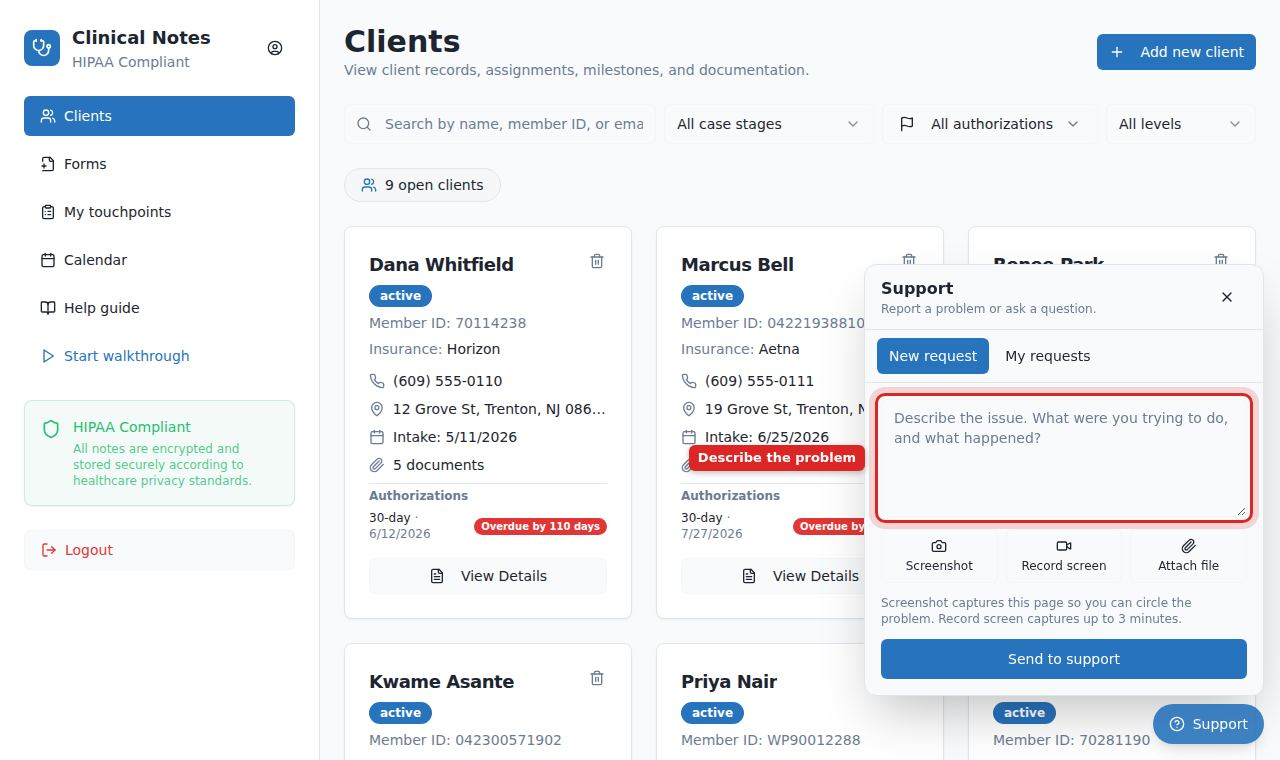
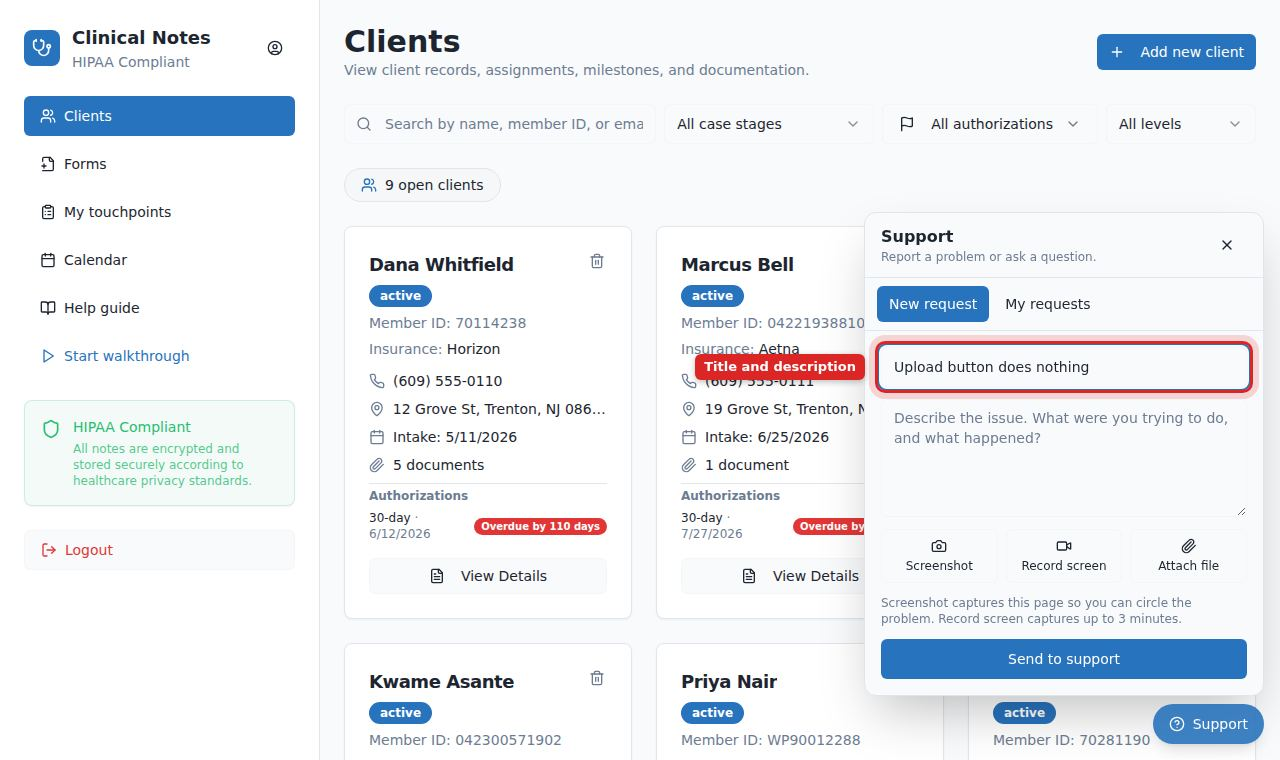
Support requests have a title
The Support form asks for a title above the description. My requests and
the Support tickets page list requests by title; opening one shows the
full description and replies. Older requests show the start of their
message. The support email subject includes the title.

Claude-Session: https://claude.ai/code/session_012TZTkqWFZbcufo1uEC7hhK

Changed region(s): [[0.5312, 0.3026, 1.0, 0.6961], [0.9375, 0.3329, 0.9688, 0.3632]]

diff --git a/src/components/support/SupportButton.tsx b/src/components/support/SupportButton.tsx
@@ -17,6 +17,7 @@ import {
   X,
 } from 'lucide-react';
 import { Button } from '@/components/ui/button';
+import { Input } from '@/components/ui/input';
 import { Textarea } from '@/components/ui/textarea';
 import { useToast } from '@/hooks/use-toast';
 import { useAuth } from '@/components/AuthProvider';
@@ -32,6 +33,7 @@ import {
   uploadAttachment,
   type Attachment,
   type Ticket,
+  ticketTitle,
 } from '@/lib/support';
 
 /** Longest recording, so a forgotten one does not run on. */
@@ -51,6 +53,7 @@ export const SupportButton: React.FC = () => {
   const { toast } = useToast();
   const [open, setOpen] = useState(false);
   const [tab, setTab] = useState<'new' | 'mine'>('new');
+  const [title, setTitle] = useState('');
   const [message, setMessage] = useState('');
   const [pending, setPending] = useState<Pending[]>([]);
   const [sending, setSending] = useState(false);
@@ -161,6 +164,10 @@ export const SupportButton: React.FC = () => {
   };
 
   const send = async () => {
+    if (!title.trim()) {
+      toast({ title: 'Enter a title', variant: 'destructive' });
+      return;
+    }
     if (!message.trim()) {
       toast({ title: 'Describe the issue before sending', variant: 'destructive' });
       return;
@@ -169,9 +176,10 @@ export const SupportButton: React.FC = () => {
     try {
       const attachments: Attachment[] = [];
       for (const p of pending) attachments.push(await uploadAttachment(user.id, p.blob, p.kind, p.name));
-      await openTicket(message, attachments);
+      await openTicket(title, message, attachments);
       pending.forEach((p) => p.preview && URL.revokeObjectURL(p.preview));
       setPending([]);
+      setTitle('');
       setMessage('');
       await refresh();
       setTab('mine');
@@ -249,6 +257,7 @@ export const SupportButton: React.FC = () => {
             <div className="min-h-0 flex-1 overflow-y-auto p-4">
               {viewing ? (
                 <div className="space-y-3">
+                  <h3 className="font-semibold">{ticketTitle(viewing)}</h3>
                   <span className={`rounded-md px-2 py-0.5 text-xs ${STATUS_CLASS[viewing.status]}`}>
                     {STATUS_LABEL[viewing.status]}
                   </span>
@@ -256,7 +265,15 @@ export const SupportButton: React.FC = () => {
                 </div>
               ) : tab === 'new' ? (
                 <div className="space-y-3">
+                  <Input
+                    value={title}
+                    onChange={(e) => setTitle(e.target.value)}
+                    placeholder="Title"
+                    aria-label="Title"
+                    maxLength={100}
+                  />
                   <Textarea
+                    aria-label="Description"
                     value={message}
                     onChange={(e) => setMessage(e.target.value)}
                     placeholder="Describe the issue. What were you trying to do, and what happened?"
@@ -346,7 +363,7 @@ export const SupportButton: React.FC = () => {
                           {format(new Date(t.created_at), 'MMM d')}
                         </span>
                       </div>
-                      <p className="mt-1.5 line-clamp-2 text-sm">{t.message}</p>
+                      <p className="mt-1.5 truncate text-sm font-medium">{ticketTitle(t)}</p>
                       {hasNewReply(t) && <p className="mt-1 text-xs font-medium text-red-700">New reply from support</p>}
                     </button>
                   ))}

diff --git a/src/pages/SupportTickets.tsx b/src/pages/SupportTickets.tsx
@@ -28,6 +28,7 @@ import {
   STATUS_LABEL,
   type Ticket,
   type TicketStatus,
+  ticketTitle,
 } from '@/lib/support';
 
 type Filter = 'active' | TicketStatus | 'all';
@@ -159,14 +160,13 @@ export default function SupportTickets() {
                   className={`block w-full p-3 text-left hover:bg-muted/40 ${t.id === selectedId ? 'bg-muted/60' : ''}`}
                 >
                   <div className="flex items-center justify-between gap-2">
-                    <span className="truncate text-sm font-medium">{names[t.created_by] ?? 'Staff member'}</span>
+                    <span className="truncate text-sm font-medium">{ticketTitle(t)}</span>
                     <span className={`shrink-0 rounded-md px-2 py-0.5 text-xs ${STATUS_CLASS[t.status]}`}>
                       {STATUS_LABEL[t.status]}
                     </span>
                   </div>
-                  <p className="mt-1 line-clamp-2 text-sm text-muted-foreground">{t.message}</p>
                   <div className="mt-1 text-xs text-muted-foreground">
-                    {format(new Date(t.created_at), "MMM d 'at' h:mm a")}
+                    {names[t.created_by] ?? 'Staff member'} · {format(new Date(t.created_at), "MMM d 'at' h:mm a")}
                     {t.attachments.length > 0 && ` · ${t.attachments.length} attachment${t.attachments.length === 1 ? '' : 's'}`}
                   </div>
                 </button>
@@ -182,9 +182,9 @@ export default function SupportTickets() {
                     <ArrowLeft className="mr-1 h-4 w-4" />
                     All tickets
                   </Button>
-                  <div className="font-semibold">{names[selected.created_by] ?? 'Staff member'}</div>
+                  <div className="font-semibold">{ticketTitle(selected)}</div>
                   <div className="text-xs text-muted-foreground">
-                    Sent {format(new Date(selected.created_at), "MMM d, yyyy 'at' h:mm a")}
+                    {names[selected.created_by] ?? 'Staff member'} · Sent {format(new Date(selected.created_at), "MMM d, yyyy 'at' h:mm a")}
                   </div>
                   {selected.page_url && (
                     <div className="mt-1 break-all text-xs text-muted-foreground">Page: {selected.page_url}</div>

diff --git a/supabase/functions/support-notify/index.ts b/supabase/functions/support-notify/index.ts
@@ -49,7 +49,7 @@ Deno.serve(async (req) => {
   // Read through the caller's login: a ticket they cannot see is not found.
   const { data: ticket } = await asCaller
     .from('support_tickets')
-    .select('id, created_by, message, page_url, status, attachments, created_at')
+    .select('id, created_by, title, message, page_url, status, attachments, created_at')
     .eq('id', body.ticketId)
     .maybeSingle();
   if (!ticket) return Response.json({ sent: false, reason: 'Not found' }, { status: 404, headers: cors });
@@ -93,10 +93,14 @@ Deno.serve(async (req) => {
   }
 
   const text = message ? message.body : ticket.message;
-  const subject = message ? `Support reply from ${who}` : `New support request from ${who}`;
+  const title = (ticket.title ?? '').trim();
+  const subject = message
+    ? `Support reply from ${who}${title ? `: ${title}` : ''}`
+    : `New support request from ${who}${title ? `: ${title}` : ''}`;
   const html = `
     <div style="font-family:Arial,sans-serif;font-size:14px;color:#111">
       <p><strong>${esc(who)}</strong>${person?.email ? ` (${esc(person.email)})` : ''} ${message ? 'replied to a support request' : 'opened a support request'}.</p>
+      ${title ? `<p style="font-size:16px"><strong>${esc(title)}</strong></p>` : ''}
       <blockquote style="border-left:3px solid #ccc;margin:0;padding:4px 12px;white-space:pre-wrap">${esc(text)}</blockquote>
       ${ticket.page_url ? `<p style="color:#555">Page: ${esc(ticket.page_url)}</p>` : ''}
       ${links.length ? `<p>Attachments (links expire in 7 days):</p><ul>${links.join('')}</ul>` : ''}

diff --git a/src/lib/support.ts b/src/lib/support.ts
@@ -33,6 +33,8 @@ export interface Attachment {
 export interface Ticket {
   id: string;
   created_by: string;
+  /** Empty on requests sent before titles existed. */
+  title: string | null;
   message: string;
   page_url: string | null;
   status: TicketStatus;
@@ -54,7 +56,7 @@ export interface TicketMessage {
 }
 
 const TICKET_COLUMNS =
-  'id, created_by, message, page_url, status, attachments, created_at, updated_at, requester_seen_at, last_support_reply_at';
+  'id, created_by, title, message, page_url, status, attachments, created_at, updated_at, requester_seen_at, last_support_reply_at';
 
 /** A ticket has a reply the person has not read yet. */
 export const hasNewReply = (t: Ticket) =>
@@ -85,9 +87,17 @@ export async function notifySupport(ticketId: string, messageId?: string): Promi
   }
 }
 
-export async function openTicket(message: string, attachments: Attachment[]): Promise<Ticket> {
+/** The title to show for a ticket: its own, or the start of the message for older ones. */
+export const ticketTitle = (t: Pick<Ticket, 'title' | 'message'>): string => {
+  if (t.title?.trim()) return t.title.trim();
+  const first = t.message.trim().split('\n')[0];
+  return first.length > 60 ? `${first.slice(0, 57)}…` : first;
+};
+
+export async function openTicket(title: string, message: string, attachments: Attachment[]): Promise<Ticket> {
   const { data, error } = await db('support_tickets')
     .insert({
+      title: title.trim(),
       message: message.trim(),
       attachments,
       page_url: window.location.href,

diff --git a/src/lib/helpGuides.ts b/src/lib/helpGuides.ts
@@ -328,9 +328,9 @@ export const GUIDES: Guide[] = [
     id: 'support', section: 'Getting started', title: 'Get help from support', audience: 'everyone', minutes: 2,
     steps: [
       s('Select Support', 'The Support button is in the bottom-right corner of every page.'),
-      s('Describe the problem', 'Say what you were trying to do and what happened.'),
+      s('Describe the problem', 'Enter a short title, then describe what you were trying to do and what happened.'),
       s('Show the problem', 'Select Screenshot to circle the problem on the page, Record screen to record up to 3 minutes, or Attach file.'),
-      s('Send it', 'Select Send to support. Replies appear under My requests.'),
+      s('Send it', 'Select Send to support. Your requests are listed by title under My requests, where replies also appear.'),
     ],
   },
 ];
